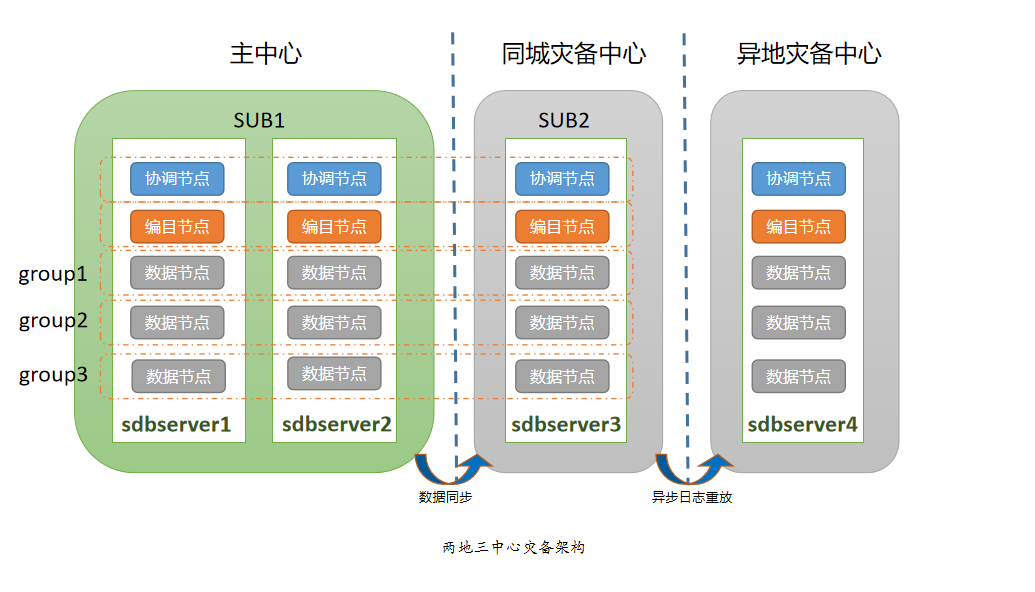
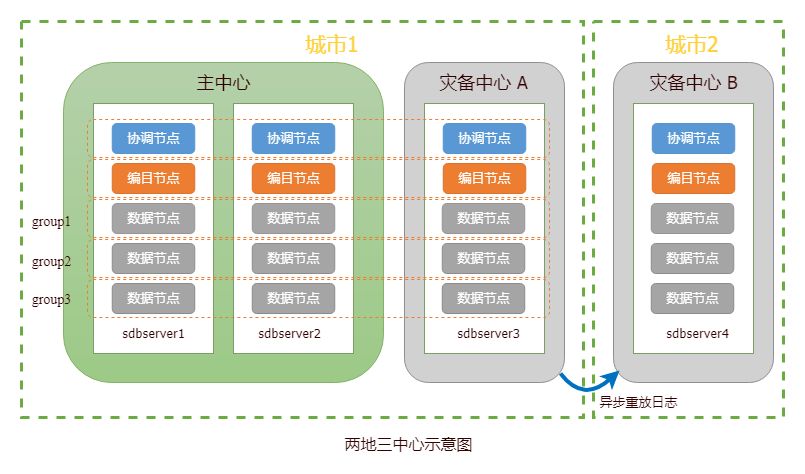
SEQUOIADBMAINSTREAM-8517 新增高可用与容灾部署方案文档

diff --git a/doc/src/manual/Deployment/cluster_deployment.md b/doc/src/manual/Deployment/cluster_deployment.md
@@ -9,15 +9,13 @@
 
 本文档主要介绍如何在本地主机采用三副本机制部署 SequoiaDB 巨杉数据库集群。集群模式是 SequoiaDB 巨杉数据库部署的标准模式，具有高可用、容灾、数据分区等能力。
 
-集群模式说明
-----
+##集群模式说明##
 
 在集群环境下，SequoiaDB 巨杉数据库需要三种角色的节点，分别为：[数据节点][data_node]、[编目节点][catalog_node]和[协调节点][coord_node]。集群模式的最小配置中，每种角色的节点都至少启动一个，才能构成完整的集群模式。
 
 集群模式中客户端或应用程序只需连接协调节点，协调节点会对接收到的请求进行解析，并将请求发送到数据节点进行处理。一个或多个节点组成复制组，复制组间的数据无共享。复制组内各节点采用异步数据复制，以保证数据的最终一致性。
 
-检查服务状态
-----
+##检查服务状态##
 
 在进行集群模式部署前，用户需要在每台数据库服务器上检查 SequoiaDB 配置服务的状态。
 
@@ -32,8 +30,7 @@
 ```
 
 
-部署
-----
+##部署##
 
 部署集群模式主要分为以下步骤：
 
@@ -176,13 +173,139 @@
      > oma.removeCoord(18800)
      ```
 
-至此，SequoiaDB 集群模式部署完毕，用户可通过 SDB Shell 进行数据操作。
+##高可用与容灾说明##
 
+如果用户采用[高可用与容灾部署方案][ha_dr_program]，在集群部署完成后需进行集群信息初始化，便于后续的灾难恢复。在多中心的部署方案中，为保证数据传输效率，用户需关闭自动全量同步功能，以控制 SequoiaDB 集群对网络宽带的占用。下述以同城三中心的部署方案为例，介绍具体操作步骤。
+
+###集群信息初始化###
+
+1. 根据数据中心划分子网，主中心为 SUB1，灾备中心为 SUB2
+
+    | 子网 | 主机 |
+    |------|------|
+    | SUB1 | sdbserver1 |
+    | SUB2 | sdbserver2、sdbserver3 |
+
+2. 选择 SUB1 的主机，切换至容灾工具目录
+
+    ```lang-bash
+    $ cd /opt/sequoiadb/tools/dr_ha
+    ```
+
+3. 修改配置文件 `cluster_opr.js`
+
+    ```lang-bash
+    $ vim cluster_opr.js
+    ```
+
+    修改内容如下：
+
+    ```lang-ini
+    if ( typeof(SEQPATH) != "string" || SEQPATH.length == 0 ) { SEQPATH = "/opt/sequoiadb/" ; }
+    if ( typeof(SUB1HOSTS) == "undefined" ) { SUB1HOSTS = [ "sdbserver1" ] ; }
+    if ( typeof(SUB2HOSTS) == "undefined" ) { SUB2HOSTS = [ "sdbserver2", "sdbserver3" ] ; }
+    if ( typeof(COORDADDR) == "undefined" ) { COORDADDR = [ "sdbserver1:11810" ] }
+    if ( typeof(CURSUB) == "undefined" ) { CURSUB = 1 ; }
+    if ( typeof(CUROPR) == "undefined" ) { CUROPR = "split" ; }
+    if ( typeof(ACTIVE) == "undefined" ) { ACTIVE = true ; }
+    if ( typeof(NEEDBROADCASTINITINFO) == "undefined" ) { NEEDBROADCASTINITINFO = false }
+    ```
+
+    >**Note:**
+    >
+    > 配置文件的参数说明可参考[容灾切换合并工具][split_merge]。
+
+4. 集群信息初始化
+
+    ```lang-bash
+    $ sh init.sh 
+    ```
+
+5. 选择 SUB2 的任意一台主机，切换至容灾工具目录
+
+    ```lang-bash
+    $ cd /opt/sequoiadb/tools/dr_ha
+    ```
+
+6. 修改配置文件 `cluster_opr.js`
+
+    ```lang-bash
+    $ vim cluster_opr.js
+    ```
+
+    修改内容如下：
+
+    ```lang-ini
+    if ( typeof(SEQPATH) != "string" || SEQPATH.length == 0 ) { SEQPATH = "/opt/sequoiadb/" ; }
+    if ( typeof(SUB1HOSTS) == "undefined" ) { SUB1HOSTS = [ "sdbserver1" ] ; }
+    if ( typeof(SUB2HOSTS) == "undefined" ) { SUB2HOSTS = [ "sdbserver2", "sdbserver3" ] ; }
+    if ( typeof(COORDADDR) == "undefined" ) { COORDADDR = [ "sdbserver1:11810" ] }
+    if ( typeof(CURSUB) == "undefined" ) { CURSUB = 2 ; }
+    if ( typeof(CUROPR) == "undefined" ) { CUROPR = "split" ; }
+    if ( typeof(ACTIVE) == "undefined" ) { ACTIVE = false ; }
+    if ( typeof(NEEDBROADCASTINITINFO) == "undefined" ) { NEEDBROADCASTINITINFO = true }
+    ```
+
+7. 集群信息初始化
+
+    ```lang-bash
+    $ sh init.sh 
+    ```
+
+###修改节点配置###
+
+1. 切换至节点配置目录
+
+    ```lang-bash
+    $ cd /opt/sequoiadb/conf
+    ```
+
+2. 逐一修改 SUB2 下所有主机的配置文件 `sdbcm.conf`
+
+    ```lang-bash
+    $ vim sdbcm.conf 
+    ```
+
+    修改内容如下：
+
+    ```lang-ini
+    ...
+    AutoStart=false
+    EnableWatch=false
+    ...
+    ```
+
+3. 逐一重启 SUB2 下所有主机的 sdbcm 节点
+
+    ```lang-bash
+    $ sdbcmtop
+    $ sdbcmart
+    ```
+
+4. 检查是否配置成功
+
+    ```lang-javascript
+    > var oma = new Oma("localhost", 11790)
+    > oma.getOmaConfigs()
+    ```
+
+5. 通过 SDB Shell 将参数 dataerrorop 配置为 2，并指定生效范围为 SUB2 下的主机
+
+    ```lang-javascript
+    > var db = new Sdb("localhost", 11810)
+    > db.updateConf({"dataerrorop": 2, {HostName: ["sdbserver2, sdbserver3"]}})
+    ```
+
+6. 检查是否配置成功
+
+    ```lang-javascript
+    > db.snapshot(SDB_SNAP_CONFIGS, {}, {NodeName: null, dataerrorop: null})
+    ```
 
 [^_^]:
      本文使用的所有引用及链接
 [data_node]:manual/Distributed_Engine/Architecture/Node/data_node.md
 [catalog_node]:manual/Distributed_Engine/Architecture/Node/catalog_node.md
 [coord_node]:manual/Distributed_Engine/Architecture/Node/coord_node.md
-
-
+[ha_dr_program]:manual/Deployment/ha_dr_program.md
+[split_merge]:manual/Distributed_Engine/Maintainance/Mgmt_Tools/split_merge.md

diff --git a/doc/src/manual/Distributed_Engine/Maintainance/HA_DR/threecity_fivedatacenter.md b/doc/src/manual/Distributed_Engine/Maintainance/HA_DR/threecity_fivedatacenter.md
@@ -1,43 +1,25 @@
 [^_^]:
     三地五中心部署
-    作者：杨磊
-    时间：20190601
-    评审意见
-    王涛：
-    许建辉：
-    市场部：20191122
 
+本文档主要介绍在三地五中心的部署方案下，如何应对不同级别的灾难。
 
-本文档将介绍如何采用五副本机制部署 SequoiaDB 巨杉数据库三地五中心灾备集群。三地五中心能够实现“多活”，多中心之间地位均等，正常模式下协同工作，并行的为业务访问提供服务，实现了对资源的充分利用，避免一个或两个备份中心处于闲置状态，造成资源与投资浪费。另外，如果一个数据中心发生故障或灾难，其它数据中心可以正常运行并对关键业务或全部业务实现接管。
+##灾难应对方案##
 
-三地五中心灾备架构
-----
-
-三地五中心灾备架构图如下，每个中心部署一个副本：
-
-![三地五中心集群部署][threecity_fivedatacenter]
-
-因为城市间网络的带宽有限，需要严格控制 SequoiaDB 集群对网络带宽的占用，阻止数据节点在异常终止后进行自动全量同步。设置 sdbcm 节点参数 AutoStart=FALSE 和 EnableWatch=FALSE，设置每个数据节点参数 dataerrorop=2。在数据同步方面，应采用 SequoiaDB 提供的[节点强一致性][consistency]功能，当数据写入主节点时，数据库会确保节点间的数据都同步完成后才返回，这样即使在主中心发生整体灾难时也能保证数据的完整性与安全性。
-
-灾难应对方案
-----
-
-### 单节点故障
+###单节点故障###
 
 由于采用了五副本高可用架构，个别节点故障情况下，集群依然可以正常工作。针对个别节点的故障场景，无需采取特别的应对措施，只需要及时修复故障节点，并通过自动数据同步或者人工数据同步的方式去恢复故障节点数据即可。
 
-### 单个数据中心整体故障
+###单个数据中心整体故障###
 
 当五个中心的一个发生故障时，每个数据组存活节点的数量还大于每个数据组的总节点数的 1/2，所以每个数据组仍然能够为应用层提供读写服务。针对单个数据中心整体故障的场景，无需采取特别的应对措施，只需要及时修复故障节点，并通过自动数据同步或者人工数据同步的方式去恢复故障节点数据即可。
 
-### 城市级整体故障
+###城市级整体故障###
 
 当一个城市的所有数据中心发生故障时，每个数据组存活节点的数量还大于每个数据组的总节点数的 1/2，所以每个数据组仍然能够为应用层提供读写服务。针对单个城市整体故障的场景，无需采取特别的应对措施，只需要及时修复故障节点，并通过自动数据同步或者人工数据同步的方式去恢复故障节点数据即可。
 
 当两个城市的数据中心全部故障时，每个数据组存活节点数小于总数的 1/2，无法选出主节点。这种情况下就需要用到分裂（split）和合并（merge）工具来进行处理，把存活的节点分裂成独立的集群提供读写服务。分裂集群的耗时相对比较短，一般在十分钟内便能完成。
 
-灾难恢复
-----
+##灾难恢复##
 
 用户可以参考[容灾工具的使用][threecity_fivedatacenter_usage]来解决故障。
 

diff --git a/doc/src/manual/Distributed_Engine/Maintainance/HA_DR/twocity_threedatacenter.md b/doc/src/manual/Distributed_Engine/Maintainance/HA_DR/twocity_threedatacenter.md
@@ -1,38 +1,23 @@
 [^_^]:
     两地三中心中心部署
-    作者：杨磊
-    时间：20190530
-    评审意见
-    王涛：
-    许建辉：
-    市场部：
 
+本文档主要介绍在两地三中心的部署方案下，如何应对不同级别的灾难。
 
-两地三中心是在[同城双中心][twodatacenter]的基础上，在异地机房单独部署一套 SequoiaDB 巨杉数据库集群，用于双中心的数据备份，当双中心出现自然灾害等原因而发生故障时，异地灾备中心可以用备份数据进行业务的恢复。
+##灾难应对方案##
 
-两地三中心灾备架构
-----
-同城的两中心采用三副本机制部署 SequoiaDB 灾备集群，异地中心集群只保持单副本，两地间结构化数据的同步通过传输同城灾备集群日志到异地灾备集群，然后通过重放日志记录的方式实现结构化数据的同步。两个集群同时在线，只有本地集群提供读写，异地集群用于数据备份，且数据同步有一定的延时。
-
-![两地三中心集群部署][twocity_threedatacenter]
-
-
-灾难应对方案
-----
-
-###主中心整体故障
+###主中心整体故障###
 
 当主中心（SUB1）整体发生故障，整个集群环境将会失去三分二的节点，如果从每个数据组来看，相当于每个数据组有两个数据节点出现了故障，存活的节点只剩余一个。这种情况下就需要用到“分裂（split）”和“合并（merge）”工具做一些特殊处理，把同城灾备中心的集群分裂成单副本集群，这时灾备中心节点可提供读写服务。分裂集群的耗时相对比较短，一般在十分钟内便能完成。具体操作可参考同城双中心[灾难恢复][disaster_recovery]。
 
-###同城网络故障
+###同城网络故障###
 
 当同城网络出现故障，导致主中心与灾备中心无法进行通信时，由于采用了三副本的架构，应用程序可以通过访问本地两副本集群。针对同城网络的故障场景，无需采取特别的应对措施，只需要及时修复网络故障，修复后通过自动数据同步或者人工数据同步的方式去恢复灾备节点的数据即可。
 
-###本地双中心整体故障
+###本地双中心整体故障###
 
 当主中心和同城灾备中心都发生故障时，本地集群已无法对外提供服务。这种情况下，只需将应用切换至异地 SequoiaDB 集群即可使业务恢复正常。待本地双中心集群故障恢复后，再将应用切换至本地即可。
 
-###异地灾备中心整体故障
+###异地灾备中心整体故障###
 
 当异地灾备中心故障时，导致异地集群无法通过日志重放进行数据同步，但并不影响本地集群的正常服务。针对异地灾备中心整体故障的场景，无需采取特别的应对措施，只需要及时修复故障节点，并恢复日志重放进程即可。
 

diff --git a/doc/src/manual/Deployment/ha_dr_program.md b/doc/src/manual/Deployment/ha_dr_program.md
@@ -1,0 +1,68 @@
+[^_^]:
+    高可用与容灾部署方案
+
+SequoiaDB 巨杉数据库采用复制组多副本架构，保证数据库的高可用性。同时，SequoiaDB 支持单机、机房和城市级别的容灾，提供同城双中心、同城三中心、两地三中心和三地五中心的部署方案。用户可根据机房配置和容灾需求，选择合适的方案进行[集群部署][cluster_deployment]。
+
+##同城双中心##
+
+###特点###
+
+- 运维成本低、建设速度快、管理相对简单。
+- 同城“双活”，充分利用资源，避免因一个数据中心处于闲置状态而造成资源浪费。
+- 能够应对单机级别的灾难，但无法应对机房和城市级别的灾难。
+
+###部署示意图###
+
+同城部署一个三副本集群，其中主中心包含两个副本，灾备中心为单副本。示意图如下：
+
+![同城双中心集群部署][twodatacenter_cluster]
+
+##同城三中心##
+
+###特点###
+
+- 相较于“同城双中心”，在运维成本增幅不大的情况下，进一步提升数据库的高可用性。
+- 同城“多活”，充分利用资源，避免因一个数据中心处于闲置状态而造成的资源浪费。
+- 能够应对机房级别的灾难，但无法应对城市级别的灾难。
+
+###部署示意图###
+
+同城部署一个三副本集群，其中主中心和灾备中心均为单副本。示意图如下：
+
+![同城三中心集群部署][threedatacenter]
+
+##两地三中心##
+
+###特点###
+
+- 异地灾备中心仅做数据备份，不提供业务服务。
+- 存在资源浪费的情况，但提升了数据库的容灾能力。
+- 能够应对城市级别的灾难，降低城市灾难带来的影响。
+
+###部署示意图###
+
+在同城双中心部署基础上，异地部署一个单副本集群。示意图如下：
+
+![两地三中心集群部署][twocity_threedatacenter]
+
+##三地五中心##
+
+###特点###
+
+- 运维成本高、建设速度慢、管理相对困难。
+- 网络延迟大，但最大程度保障了数据库的容灾能力。
+- 能够应对城市级别的灾难，当其中一个城市发生灾难，其他城市能够接管关键或全部业务，实现故障无感知。
+
+###部署示意图###
+
+三个城市组成一个五副本集群，每个数据中心都为单副本。示意图如下：
+
+![三地五中心集群部署][threecity_fivedatacenter]
+
+[^_^]:
+    本文使用到的所有链接
+[twodatacenter_cluster]:images/Deployment/twodatacenter_cluster.png
+[threedatacenter]:images/Deployment/threedatacenter.png
+[twocity_threedatacenter]:images/Deployment/twocity_threedatacenter.png
+[threecity_fivedatacenter]:images/Deployment/threecity_fivedatacenter.png
+[cluster_deployment]:manual/Deployment/cluster_deployment.md

diff --git a/doc/src/manual/Deployment/Readme.md b/doc/src/manual/Deployment/Readme.md
@@ -40,7 +40,10 @@ SequoiaDB 目前支持两种形式的部署：
 
 ![高可用部署][available]
 
+SequoiaDB 提供同城双中心、同城三中心、两地三中心和三地五中心的[高可用与容灾部署方案][ha_dr]。
+
 ###高性能部署###
+
 高性能部署方式适用于对总数据吞吐或性能要求高、硬件成本低、可靠性要求不高的场景。该部署方式，在三台物理机服务上都部署有编目节点和数据节点，三个编目节点组成一个复制组，每个数据节点分别组成一个单副本的复制组。协调节点与应用部署既可以部署在分离的服务器上，也可以部署在数据库所在服务器上。
 
 这种部署模式可以充分利用所有服务器的存储容量，总的存储容量等于三个服务器的容量总和。但缺点是可靠性较低，任意一台服务器故障，都会导致部分数据无法读取和写入。
@@ -58,3 +61,4 @@ SequoiaDB 目前支持两种形式的部署：
 [easiest]:images/Deployment/easiest.jpg
 [available]:images/Deployment/available.jpg
 [performance]:images/Deployment/performance.jpg
+[ha_dr]:manual/Deployment/ha_dr_program.md
